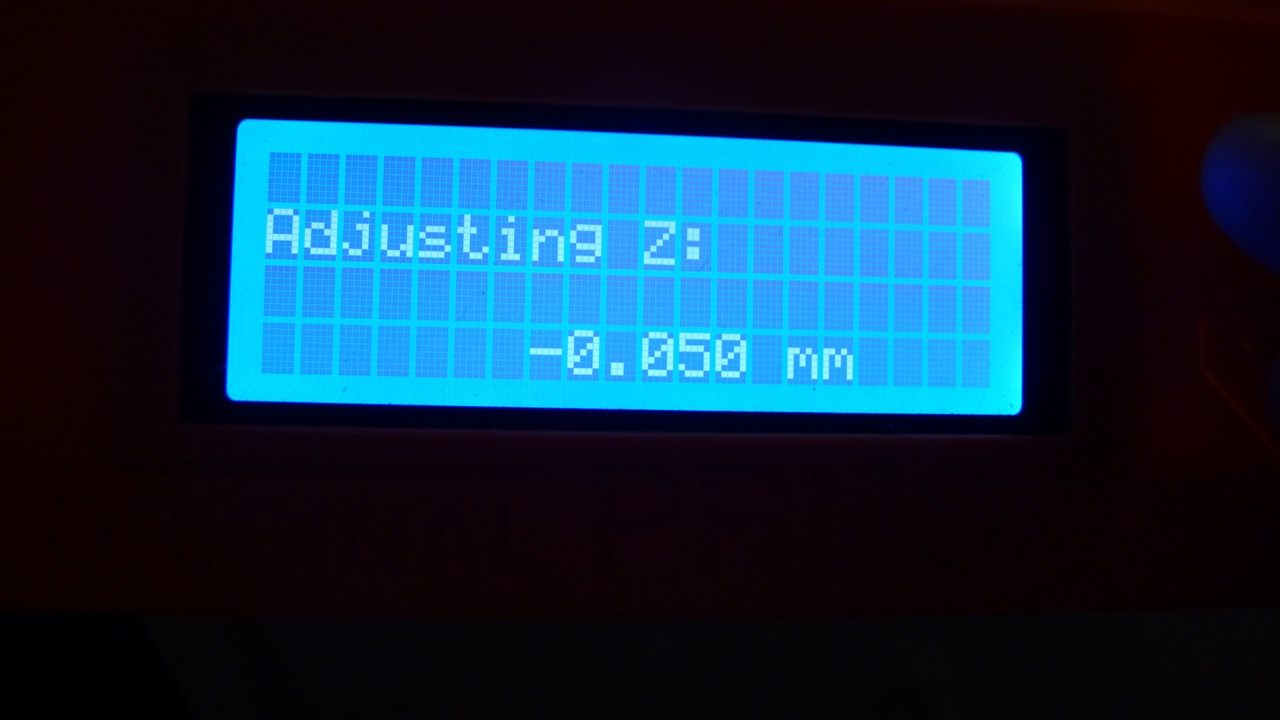
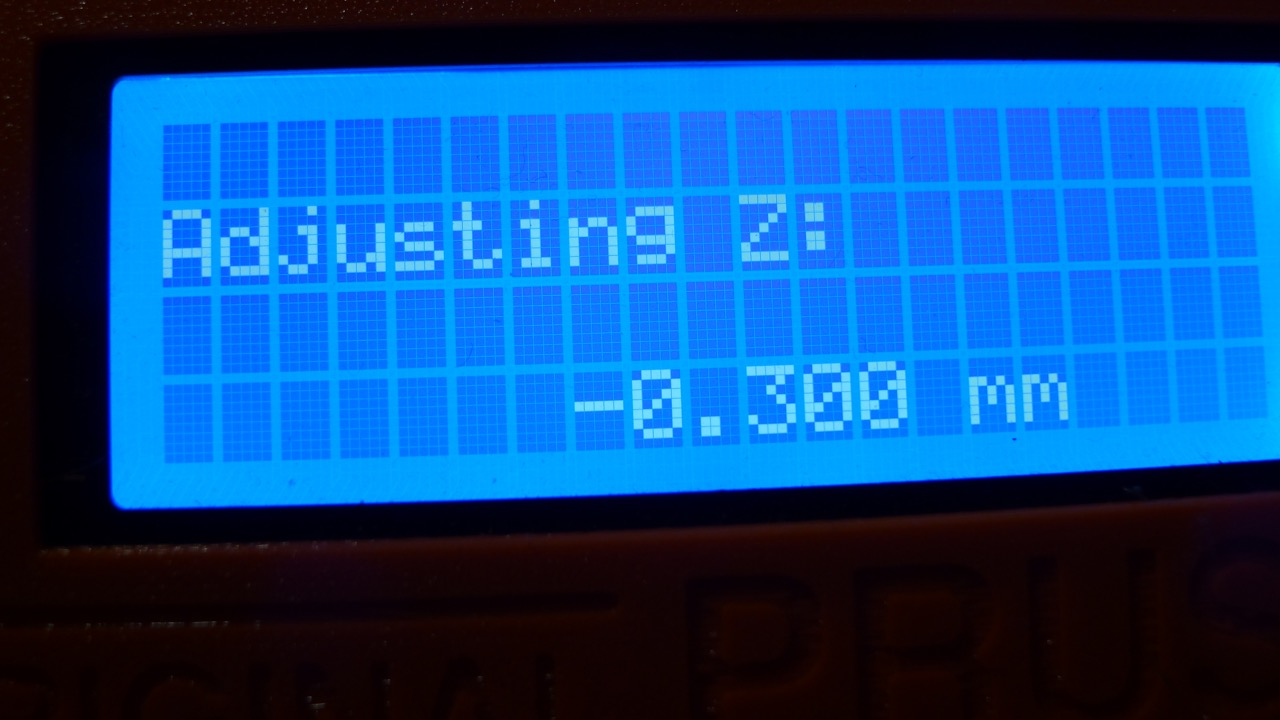
updates to bed level

diff --git a/prusamk2s.md b/prusamk2s.md
@@ -104,16 +104,87 @@ they (very graciously!) sent me a replacement aluminum frame free of charge. Des
 # Tapping the new Frame
 __*Jan 15, 18*__ The new aluminum frame arrived. But this time I decided not to take any chances and purchased an M3 tap set at the local hardware store (you can also easily find them [online](https://www.amazon.com/Drill-Warehouse-Adjustable-T-Handle-Thread/dp/B0736T5NM6/)). Once I tapped the holes on the new frame the bolts went in easily and secured tightly, a huge difference.
 
-<img src="img/prusa/new-frame-tap01-jan13.jpg" alt="Duplicate Z axis Bottom Left" style="width: 400px; align: left;"/>
+<img src="img/prusa/new-frame-tap03-jan13.jpg" alt="Tapping Aluminum Frame" style="width: 400px; float: left;"/>
 
-<img src="img/prusa/new-frame-tap03-jan13.jpg" alt="Duplicate Z axis Bottom Left" style="width: 400px; align: left;"/>
+<img src="img/prusa/new-frame-tap01-jan13.jpg" alt="New Aluminum Frame" style="width: 300px; align: left;"/>
+
 
 I really think it's important that Prusa find a better way of tapping these holes in manufacturing, because they seem to be creating an issue for many people when assembling these kits. I [posted a recommendation](http://manual.prusa3d.com/Guide/4.+Z-axis+assembly/296?lang=en#s5013) on the instructions page to tap the holes before assembling the Z-axis... hopefully others take the advice that I had to learn the hard way.
 
 In either case, with a new aluminum frame and lessons learned I'll try to finish building the printer tonight.
 
-# Layer Height and Bed Level Problems...<a name='bed-level-problem'></a>
-__*Jan 31, 18*__
+# Printer Calibrations
+__*Jan 16, 18*__ After tapping the M3 holes in the frame the rest of the kit assembly was a breeze. In their [3D Printing Handbook](www.prusa3d.com/3dhandbookMK2S), <a name='printing-handbook'></a> Prusa recommends a few calibration routines after assembly.
+
+<img src="img/prusa/calibration-workflow.png" alt="Kit Calibration Workflow" style="width: 600px; align: left;"/>
+
+First I adjusted the PINDA probe height using a zip-tie as a spacer. It's important that the PINDA probe isn't too high, or else it won't detect the metal markers inside the bed and could potentially send the nozzle into the bed, damaging it.
+
+<img src="img/prusa/prusa-calibration-xyz-skewed01.jpg" alt="XYZ calibration result" style="width: 400px; float: right;"/>
+
+The self-test worked without issue. And I was able to calibrate the XYZ axis as well: although I got the message that my axis were skewed. But the firmware will compensate for the axis skew like magic.
+
+After loading the filament I printed the V2calibration test print to get the height of the nozzle fine tuned.
+
+
+<br/><br/><br/><br/><br/><br/>
+
+#### Here's the first try:
+
+<img src="img/prusa/prusa-calibration-xyz-v2cal-firsttry.jpg" alt="Bed Level Problem" style="width: 800px;"/>
+
+The V2calibration prints a line zig-zagging from left to right across the print bed. It *should* be alined with the measurement lines on the printbed, and the goal is to adjust the nozzle (using Live-Z adjust) until it's close enough to the bed that it produces a nice, solid, even line that sticks well to the bed.
+
+To judge the nozzle height in the calibration print I found this image really helpful:
+
+<a name="nozzle-height-guide"></a>
+<img src="img/prusa/nozzle-height-guide.jpg" alt="Guide to Nozzle Height" style="width: 400px; float:left"/>
+
+You can see in my first print that the filament is not sticking to the board, like in the top image. If I just lightly touch it, the filament comes right off.
+
+The next thing to do is try the V2calibration again and again, using the Live-Z adjust setting while the print is going to lower the nozzle until it's at a good height. The V2calibration print has a special setting in it that saves the Z-adjustment value to be used in future prints.
+
+I had used an Ultimaker Original in the past, and I remember having to do this using a piece of paper and manually adjusting screws on the bed. I'm really impressed that Prusa has been able to integrate this annoying part of maintenance into the firmware.
+
+<br/><br/><br/>
+<br/><br/><br/>
+
+<img src="img/prusa/prusa-calibration-livez01.jpg" alt="Live-Z Adjust" style="width: 300px;float:right"/>
+
+<img src="img/prusa/prusa-calibration-livez02.jpg" alt="Live-Z Adjust" style="width: 300px; float:right"/>
+
+I found that by lowering the nozzle I was able to get good adhesion on the right side of the print bed, but on the left side I was still getting lines that wouldn't stick. If I lowered the nozzle more eventually the lines on the left would stick, but the lines on the right side of the bed would start having problems with being too close to the bed (nozzle almost digging into the build plate).
+
+After a few tries I settled on lowering the nozzle by 0.3mm.
+
+<br/><br/><br/>
+
+#### Here's the result after some tweaking..
+<img src="img/prusa/bedlevel-v2cal03.jpg" alt="v2calibration" style="width: 800px;"/>
+
+It's a bit hard to see with the silver filament, but you can see how the printed lines are much thicker on the right side of the board than on the left side. It's especially visible in the lower two lines.
+
+Unfortunately the lines on the left side at this point were still having problems sticking (I could easily disconnect them from the bed just by touching them).
+
+The [3D printing handbook](#printing-handbook) specifically mentions this problem in the workflow - and suggests looking at the chapter on Bed level correction.
+
+## Bed Level correction
+
+
+
+
+
+
+
+
+<br/><br/>
+<br/><br/>
+# Ongoing Layer Height and Bed Level Issues<a name='bed-level-problem'></a>
+
+__*Jan 31, 18*__ After tapping the M3 holes in the frame the rest of the kit assembly was a breeze. In their [3D Printing Handbook](www.prusa3d.com/3dhandbookMK2S), Prusa recommends a few calibration routines after assembly.
+
+
+
 ### Really helpful Prusa MK2S owners facebook page..
 
 ### Trying to fix this problem....
@@ -121,6 +192,8 @@ __*Jan 31, 18*__
 * Multiple adjustments of the PINDA probe
 * Moving the printer to different surfaces (table tops which may be more flat), and recalibrating the printer afterwards
 * reassembling the printbed/Y-axis connection
+
+<iframe width="560" height="315" src="https://www.youtube.com/embed/JqH41K2vq0g?start=296" frameborder="0" allow="autoplay; encrypted-media" allowfullscreen></iframe>
 
 #### Caliper measurements show a 1mm difference in height between the left and right side of the bed, but the PINDA Z calibration should resolve this? No?
 To be honest I'm now really regretting not purchasing the slightly more expensive MK3. A friend of mine purchased the MK3 and had his printer up and working in two days. The y-axis frame seems to be a much better design than on the MK2S - which I have had to repeatedly adjust, to the point of even rebuilding the whole thing.. and I can only assume part of my bed height problems are due to the instability of the Y-axis design. At this point I am ready to give up... if you have any suggestions for solving this problem please help!
@@ -143,10 +216,6 @@ The calibration print is 'squished' on the right side and sticks well to the bed
 
 Apologies for the image - the filament is grey so it is a bit difficult to see against the print bed.
 
-<img src="img/prusa/bedlevel-v2cal02.jpg" alt="Bed Level Problem" style="width: 800px;"/>
-
-<img src="img/prusa/bedlevel-v2cal03.jpg" alt="Bed Level Problem" style="width: 800px;"/>
-
 ## Here is the bottom of the tree frog included print.
 The left side of the print is not well-attached to the bed, the right side is printed very nicely on the first layer.
 
@@ -167,16 +236,6 @@ The left side of the print is not well-attached to the bed, the right side is pr
 
 
 
-### Live-Z Adjust
-
-<img src="img/prusa/prusa-calibration-livez01.jpg" alt="Bed Level Problem" style="width: 600px;"/>
-
-<img src="img/prusa/prusa-calibration-livez02.jpg" alt="Bed Level Problem" style="width: 600px;"/>
-
-<img src="img/prusa/prusa-calibration-livez04.jpg" alt="Bed Level Problem" style="width: 600px;"/>
-
-
-
 
 
 
@@ -184,7 +243,8 @@ The left side of the print is not well-attached to the bed, the right side is pr
 
 <img src="img/prusa/cal01-xyz.jpg" alt="Bed Level Problem" style="width: 800px;"/>
 
-<img src="img/prusa/prusa-calibration-xyz-v2cal-firsttry.jpg" alt="Bed Level Problem" style="width: 800px;"/>
+oh my
+
 
 <img src="img/prusa/prusa-calibration-xyz01.jpg" alt="Bed Level Problem" style="width: 800px;"/>
 
@@ -195,11 +255,15 @@ The left side of the print is not well-attached to the bed, the right side is pr
 
 <img src="img/prusa/prusa-calibration-z01.jpg" alt="Bed Level Problem" style="width: 800px;"/>
 
+z cal01
+
+
 <img src="img/prusa/prusa-calibration-z02.jpg" alt="Bed Level Problem" style="width: 800px;"/>
 
 <img src="img/prusa/prusa-calibration-xyz-perp01.jpg" alt="Bed Level Problem" style="width: 800px;"/>
 
-<img src="img/prusa/prusa-calibration-xyz-skewed01.jpg" alt="Bed Level Problem" style="width: 800px;"/>
+main
+
 
 <img src="img/prusa/prusa-calibration-xyz-v2cal04.jpg" alt="Bed Level Problem" style="width: 800px;"/>
 
@@ -211,6 +275,8 @@ The left side of the print is not well-attached to the bed, the right side is pr
 ### Triple Checking XYZ / Z Calibration
 
 <img src="img/prusa/prusa-calibration-xyz-leftz.jpg" alt="Bed Level Problem" style="width: 600px;"/>
+
+Triple
 
 <img src="img/prusa/prusa-calibration-xyz-rightz.jpg" alt="Bed Level Problem" style="width: 600px;"/>
 
